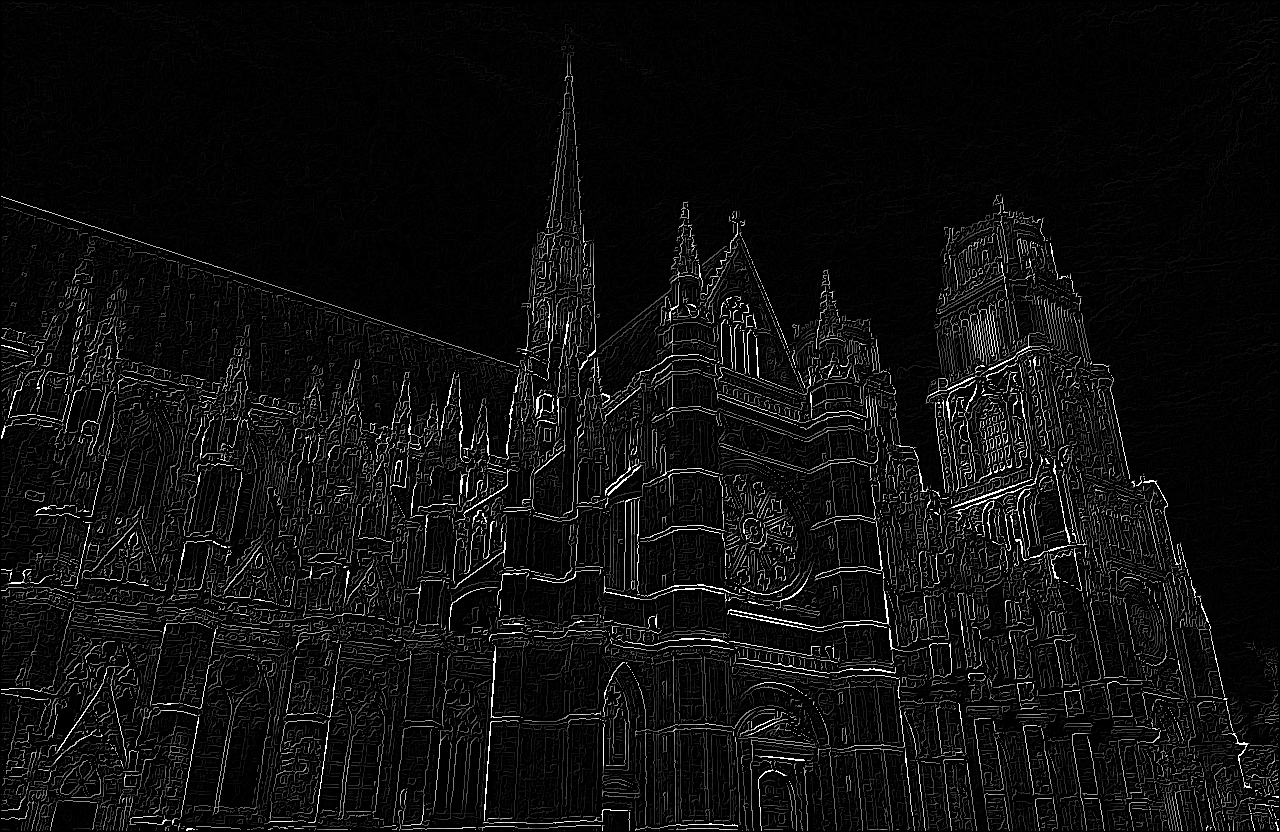
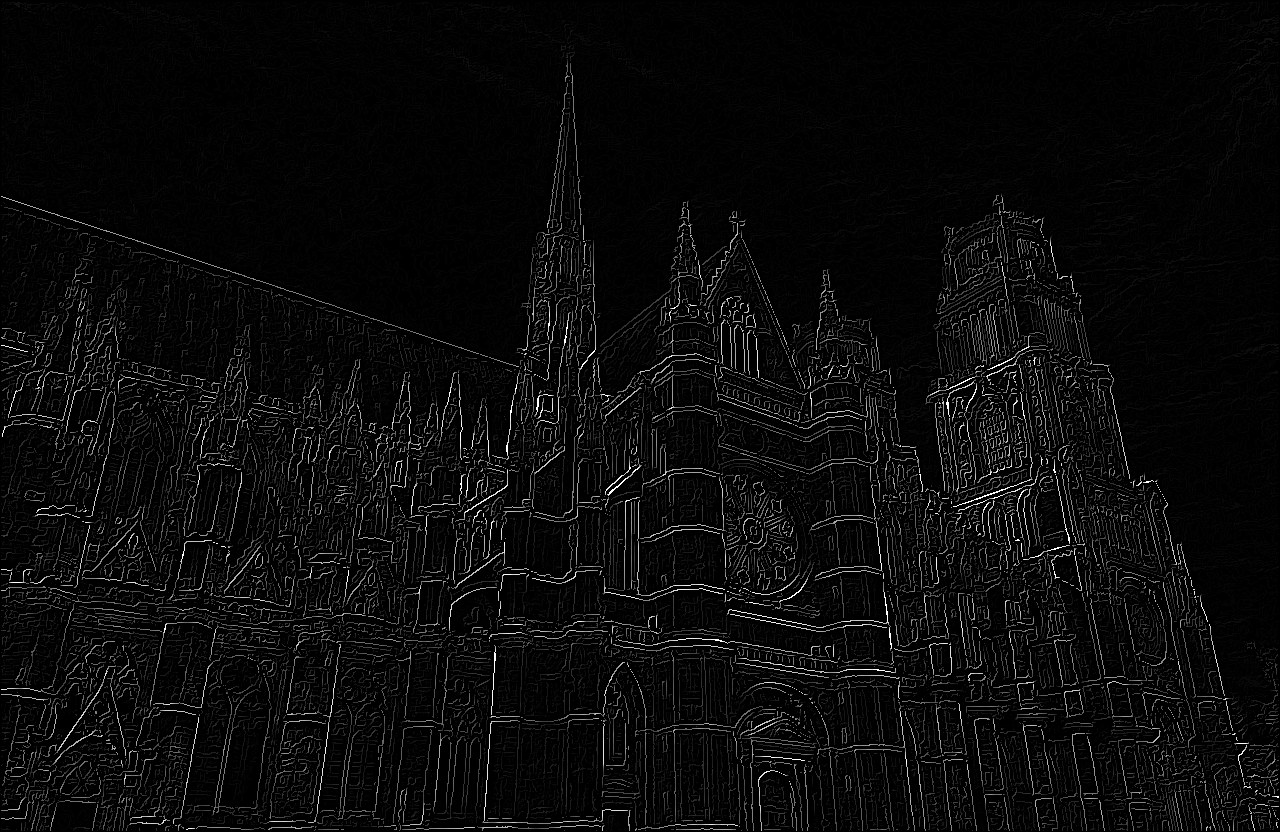
added Gaussian kernel calculation

diff --git a/main.go b/main.go
@@ -4,7 +4,31 @@ import (
     "image/jpeg"
     "os"
     "fmt"
+    "math"
 )
+
+func makeGaussianKernel(radius float64) []float64 {
+    width := math.Ceil(radius)
+    kernel := make([]float64, int(width) * 2 + 1)
+
+    sigma := radius / 3.0
+    sum := 0.0
+
+    base := 1.0 / (math.Sqrt(2.0 * math.Pi) * sigma)
+    coeff := 2 * sigma * sigma
+
+    for i := -int(width); i <= int(width); i++ {
+        value := base * math.Exp(-float64(i*i) / coeff)
+        kernel[i + int(width)] = value
+        sum += value
+    }
+
+    for i := range kernel {
+        kernel[i] /= sum
+    }
+
+    return kernel
+}
 
 func parseArgs() (string, string) {
     if len(os.Args) != 3 {
@@ -31,7 +55,7 @@ func main() {
     }
 
     grayImg := Grayscale(img)
-    kernel := []float64{0.0003,	0.0033,	0.0237,	0.0970,	0.2260,	0.2995,	0.2260,	0.0970,	0.0237,	0.0033,	0.0003}
+    kernel := makeGaussianKernel(5.0)
     grayImg = GaussianFilter(grayImg, kernel, true)
     grayImg = GaussianFilter(grayImg, kernel, false)
 
